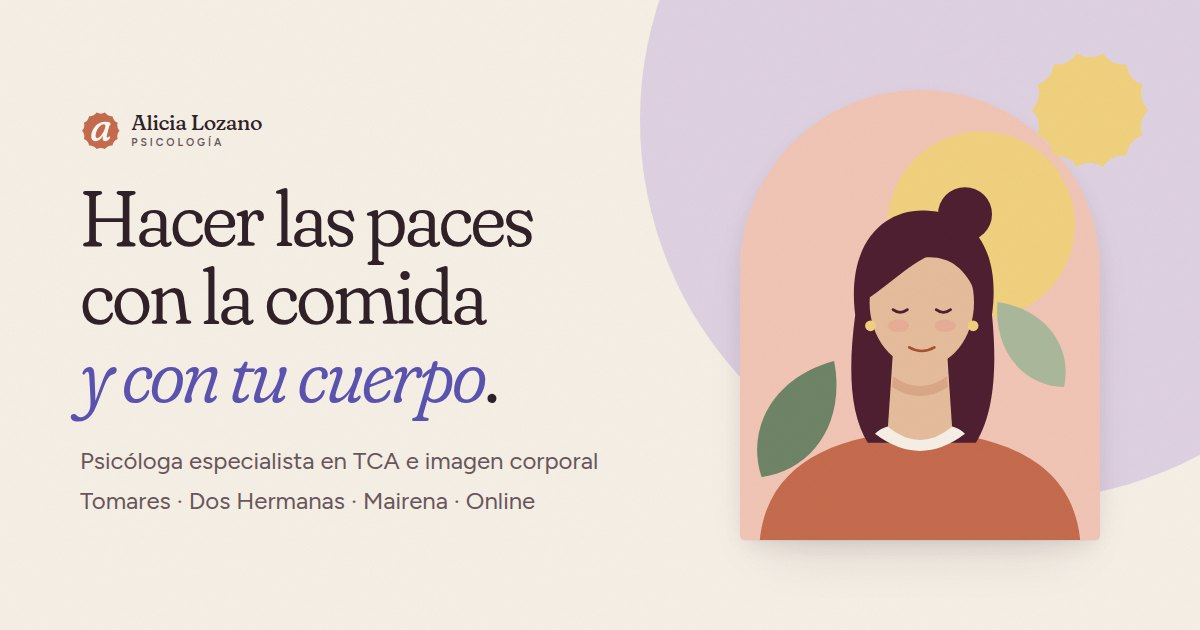
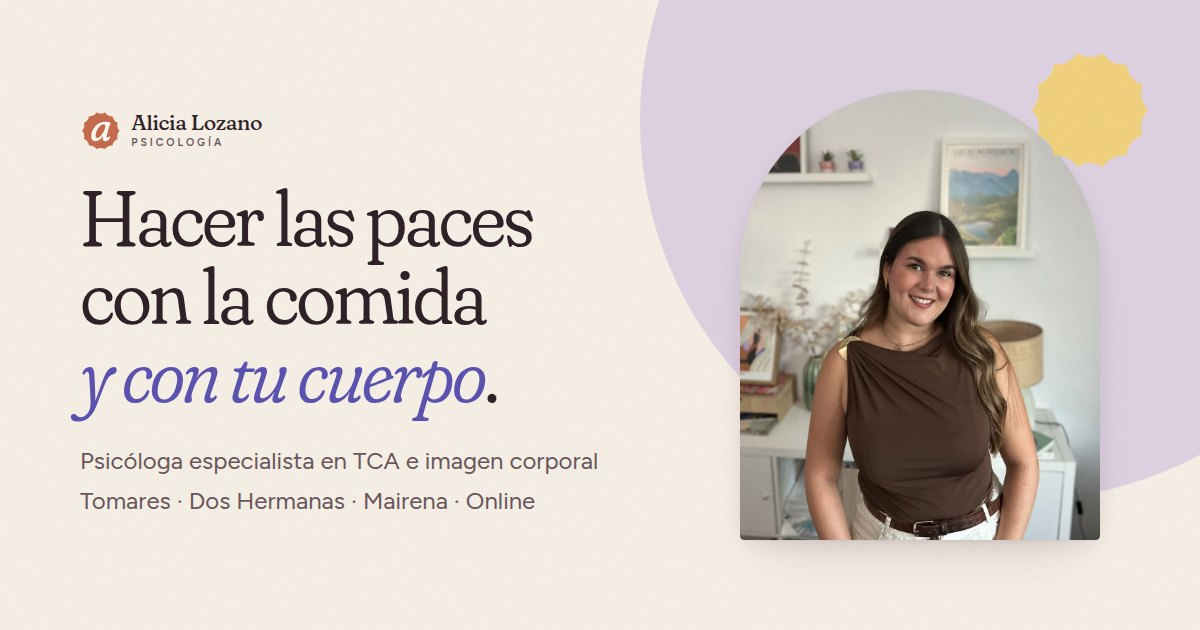
Fotos de Ali, formación, tarifa única y ajustes de textos

Changed region(s): [[0.6167, 0.1206, 0.925, 0.8746]]

diff --git a/src/consts.ts b/src/consts.ts
@@ -13,10 +13,9 @@ export const CONTACT = {
   phoneHref: "tel:+34655042852",
   whatsapp: "https://wa.me/34655042852?text=" +
     encodeURIComponent("Hola Alicia, me gustaría pedir información sobre la terapia."),
-  instagram: "https://www.instagram.com/", // TODO: usuario real de Instagram
-  instagramHandle: "@alicialozano.psicologia", // TODO
-  // PROVISIONAL: número de colegiada real
-  license: "Psicóloga General Sanitaria · Col. AN-00000",
+  instagram: "https://www.instagram.com/alilozanopsico/",
+  instagramHandle: "@alilozanopsico",
+  license: "Psicóloga General Sanitaria · Nº col. AN-11007",
 };
 
 /**
@@ -92,9 +91,9 @@ export const NAV = [
   { href: "/contacto", label: "Contacto" },
 ];
 
-// PROVISIONAL: tarifas de ejemplo
-export const PRICES = [
-  { name: "Primera sesión", time: "60 min", price: "60 €", detail: "Nos conocemos, me cuentas qué te trae y valoramos juntas cómo seguir." },
-  { name: "Sesión individual", time: "50 min", price: "55 €", detail: "Presencial en cualquiera de las tres consultas u online. Mismo precio." },
-  { name: "Bono 4 sesiones", time: "4 × 50 min", price: "200 €", detail: "Para procesos con frecuencia semanal o quincenal. Válido 3 meses." },
-];
+// Tarifa única: todas las sesiones (también la primera) cuestan lo mismo
+export const PRICE = {
+  amount: "55 €",
+  duration: "60 minutos",
+  durationShort: "1 hora",
+};

diff --git a/README.md b/README.md
@@ -20,7 +20,7 @@ Cloudflare Pages: *Build command* `npm run build`, *Output directory* `dist`, va
 | --- | --- |
 | Teléfono, email, WhatsApp, Instagram, nº de colegiada | `src/consts.ts` → `CONTACT` |
 | Consultas (direcciones, notas, posición en el mapa) | `src/consts.ts` → `LOCATIONS` |
-| Tarifas | `src/consts.ts` → `PRICES` |
+| Tarifa (precio y duración) | `src/consts.ts` → `PRICE` |
 | Menú | `src/consts.ts` → `NAV` |
 | Servicios (textos, “¿es para ti?”, pasos, FAQ) | `src/content/services/*.md` |
 | Artículos del blog | `src/content/blog/*.md` |
